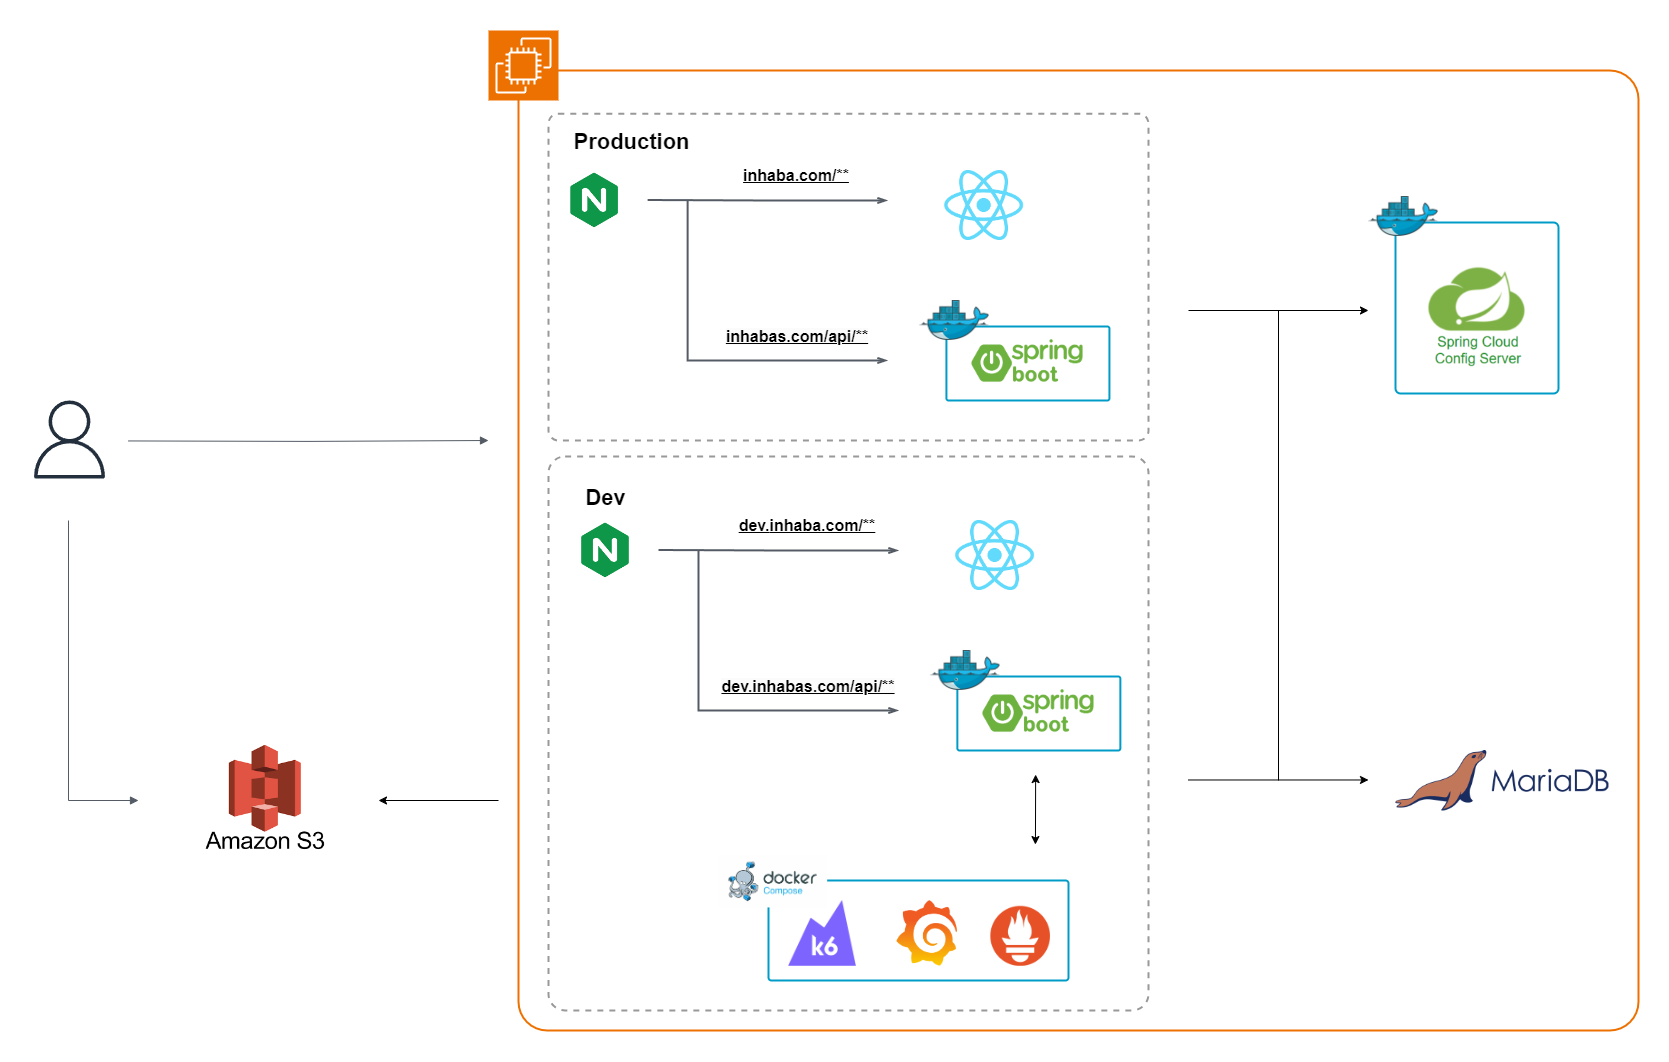
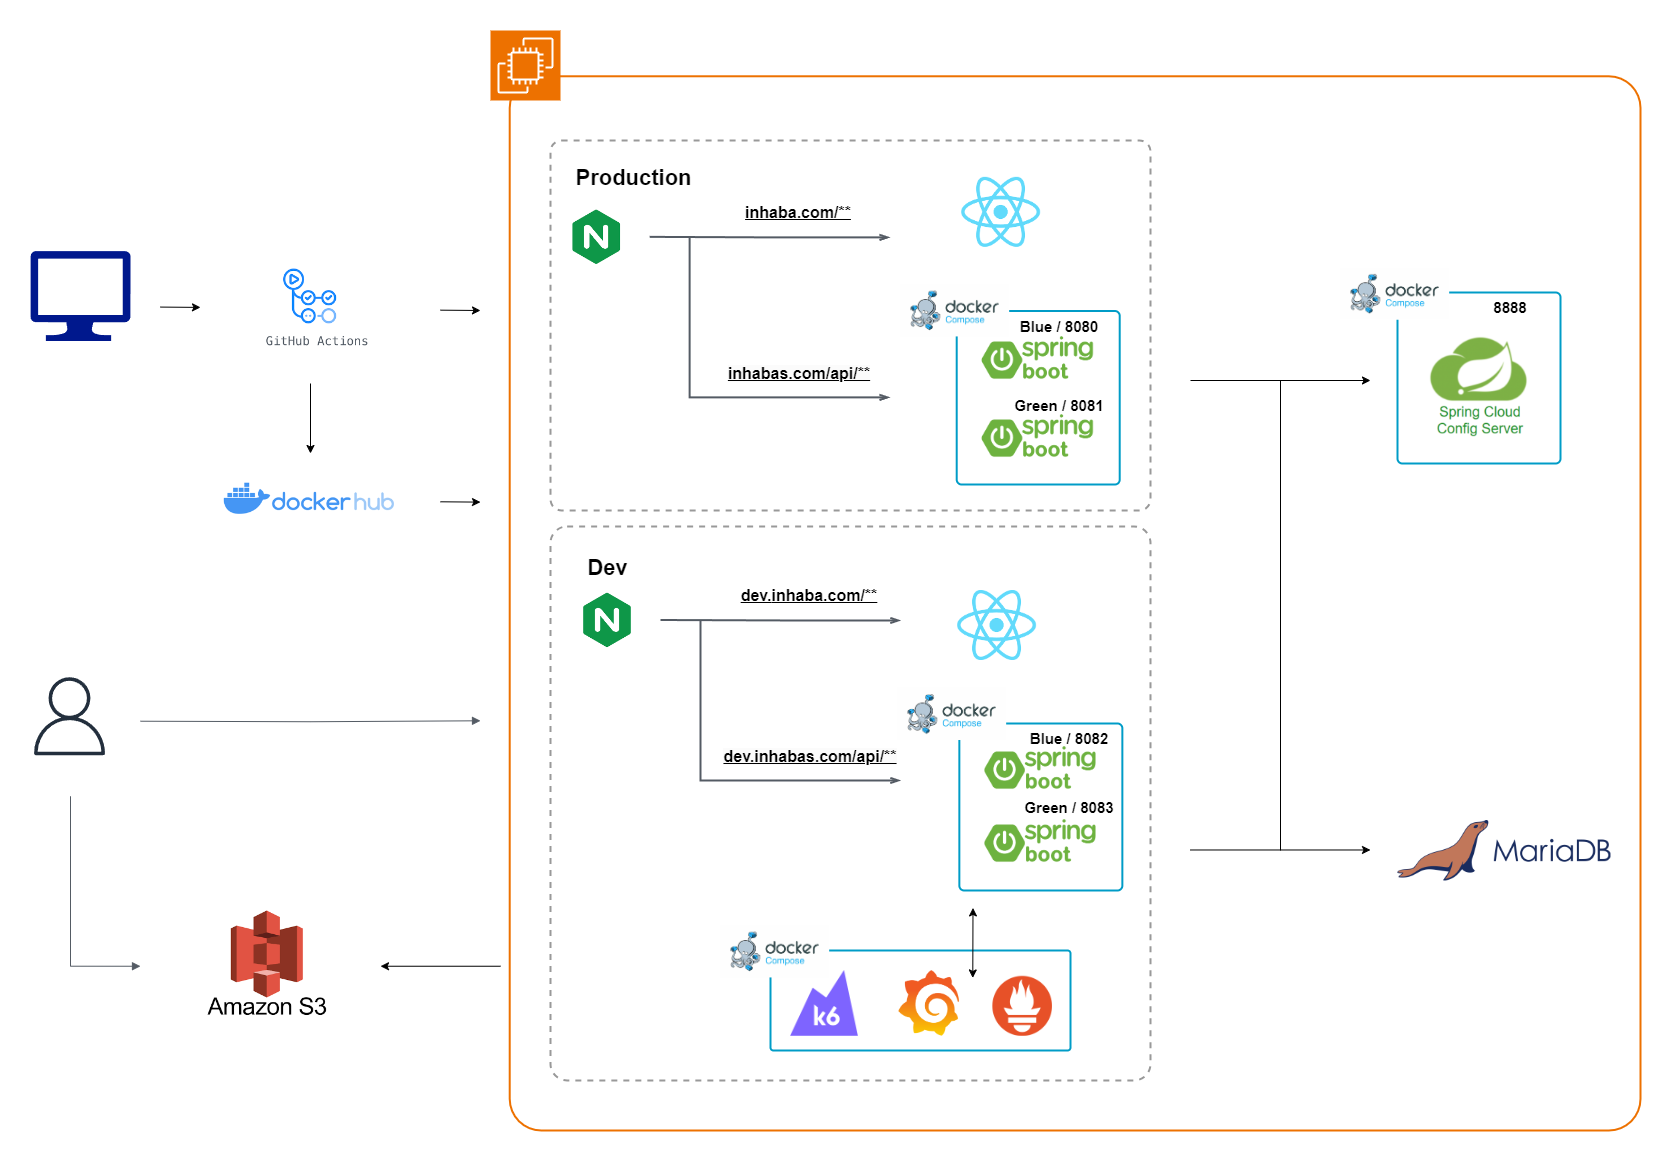
[docs/#167] README 추가 작성

diff --git a/README.md b/README.md
@@ -15,29 +15,118 @@ IBAS는 인하대학교의 빅데이터 학술동아리 입니다. 주로 데이
 
 ## IBAS Project
 
-IBAS 개발팀은 동아리의 활동과 비전을 온라인에 효과적으로 전달하기 위해 웹 페이지를 운영하고 있습니다. IBAS 웹페이지는 회원들과의 소통을 강화하고 외부에 동아리의 활동을 알리는 플랫폼으로 활용되고 있습니다.
+IBAS 공식 웹페이지는 인하대학교 빅데이터 학술 동아리의 활동과 비전을 효과적으로 전달하기 위해 개발되었습니다.
+
+회원 등급에 따라 컨텐츠 접근 권한을 관리하여 안전한 자료 보관과 공유를 지원합니다. 또한, 간편한 회원 관리와 회계 관리 시스템을 통해 동아리 운영의 효율성을 높입니다. 주요 기능으로는 회원 등급 관리, 회계 내역 관리, 활동 및 공지사항 관리, 자료 공유 및 커뮤니케이션 플랫폼 등이 있습니다.
+
+이 웹서비스는 해당 동아리의 특성에 맞게 커스터마이징 된 기능을 제공하는것에 중점을 두고 있습니다.
 
 [IBAS 웹페이지 바로가기](https://www.inhabas.com/)
 
 [2023.09~2024.07 웹서비스 개발 문서](https://www.notion.so/IBAS-049505480e5f4bebbb01bfc9b1e9c3c0)
 
-### Architecture
-
+## Architecture
 ![Architecture](docs/images/architecture.png)
 
-### Style Convention
+## Stacks
+### Language & Framework
+![Java](https://img.shields.io/badge/Java-ED8B00?style=for-the-badge&logo=openjdk&logoColor=white) ![Spring Boot](https://img.shields.io/badge/SpringBoot-6DB33F?style=for-the-badge&logo=Spring&logoColor=white) ![Spring Dada JPA](https://img.shields.io/badge/Spring_data_jpa-6DB33F?style=for-the-badge&logo=Spring&logoColor=white) ![Spring Security](https://img.shields.io/badge/Spring%20Security-6DB33F?style=for-the-badge&logo=springsecurity&logoColor=white) ![Spring Boot](https://img.shields.io/badge/Spring%20Cloud%20config-6DB33F?style=for-the-badge&logo=spring&logoColor=white) ![Querydsl](https://img.shields.io/badge/Querydsl-003366?style=for-the-badge&logo=Querydsl&logoColor=white)
+
+### Database
+![MariaDB](https://img.shields.io/badge/MariaDB-003545?style=for-the-badge&logo=mariadb&logoColor=white) ![Redis](https://img.shields.io/badge/Redis-DC382D?style=for-the-badge&logo=redis&logoColor=white)
+
+### Test
+![Jnit5](https://img.shields.io/badge/JUnit5-25A162?style=for-the-badge&logo=JUnit5&logoColor=white) ![Mockito](https://img.shields.io/badge/Mockito-83B81A?style=for-the-badge&logo=Mockito&logoColor=white")
+
+### Infra
+![Gradle](https://img.shields.io/badge/Gradle-02303A?style=for-the-badge&logo=Gradle&logoColor=white) ![Docker](https://img.shields.io/badge/Docker-2496ED?style=for-the-badge&logo=Docker&logoColor=white) ![Prometheus](https://img.shields.io/badge/Prometheus-20232A?style=for-the-badge&logo=prometheus) ![Grafana](https://img.shields.io/badge/Grafana-5f5f5f?style=for-the-badge&logo=grafana) ![K6](https://img.shields.io/badge/k6-5432a8?style=for-the-badge&logo=K6&logoColor=white) ![Github actions](https://img.shields.io/badge/Github%20actions-5f5f5f?style=for-the-badge&logo=github&logoColor=white)
+
+### Documentation
+![Swagger](https://img.shields.io/badge/Swagger-85EA2D?style=for-the-badge&logo=Swagger&logoColor=white)
+
+
+## Style Convention
 
 IBAS Project는 코드 품질과 가독성을 유지하기 위해 일관된 스타일 규약을 따르고 있습니다. 기여하기 전 아래 문서를 참고해주세요.
 
 [STYLE-CONVENTION.md](STYLE-CONVENTION.md)
 
-### IBAS에 기여하기
+
+## Main Features
+
+### Swagger를 활용한 API 명세
+![Swagger](docs/images/show/swagger.gif)
+- 약 100개의 REST API
+- 자세한 Request, Response 예시 제공
+- Token 인증 방식을 활용한 권한 테스트 지원
+
+### 회원관리
+![Manage-users](docs/images/show/manage-user.gif)
+- 권한별 제한된 회원 등급 관리
+- 신입 부원 가입 관리
+- 권한별 개인정보 마스킹 처리
+
+![Board](docs/images/show/board.gif)
+- 권한별, 게시판별 CRUD 
+- 검색 기능
+- 게시글 Markdown 형식, 미리보기 기능 제공
+- 파일 업로드
+  - 제한된 파일 확장자 
+  - 데이터 검증으로 보안 문제 방지 
+  - 난수 값을 활용한 파일명 저장
+  - 미리보기, 확대 기능
+  - 복수 파일 추가, 삭제 기능 
+  - 다운로드 기능
+
+![Comment](docs/images/show/comment.gif)
+- 권한별 CRUD
+- 대댓글 기능
+  - 계층적 UI 제공
+  - 삭제 조건 세분화
+    - 해당 댓글이 대댓글을 포함한 경우 `삭제된 댓글입니다.` 표시로 대체
+    - 해당 댓글이 말단 댓글인 경우만 삭제
+
+![Account](docs/images/show/account.gif)
+- 총무만 CRUD 허용
+  - 단, 이전 기수 총무가 작성한 것은 수정 불가
+  - 총무가 직접 사용하지 않아 송금을 하는 경우, 예산지원 신청 심사를 거쳐 자동 기록
+- 트랜잭션 관리로 동시성 제어
+- 잔액 자동 계산 기능
+
+### 그 외 여러가지 기능
+- OAuth2 로그인
+- 동아리 정책 관리
+- 내 정보 관리
+- 내가 쓴 글, 기록 관리
+- 동아리 지원서 작성
+- 동아리 연혁
+- 공모전, 장학회 등 여러 형태의 게시판
+
+
+## Problem documentation
+
+### [자세한 내용](https://www.notion.so/IBAS-049505480e5f4bebbb01bfc9b1e9c3c0?pvs=4#cdf1c1b74fe04f91974b8d9464ade39a)
+
+- 회계 관련 동작 로직
+- 권한 체계 정책
+- 회원가입 과정 동작 로직
+- OAuth 회원가입 동작 로직
+- 등급 하락 시 접근 권한 정책
+- 첨부 가능한 파일 확장자
+- ec2 root 계정 분실로 인한 서버 이전 방법
+- Blue/Green 배포 (Nginx + github actions) without Docker
+- Blue/Green 배포 (Nginx + github actions + Docker compose)
+- forked repository PR에서 pull_request시 secrets값을 가져오지 못하는 오류
+- JPA 성능 최적화
+
+
+## How to contribute to IBAS
 
 IBAS에 소속된 회원이라면 누구든지 이 프로젝트에 기여할 수 있습니다.
 
 아래 기여 가이드라인을 확인하고 기여해주세요.
 
-1. PR올리는 경우
+1. PR 올리는 경우
 
    [CONTRIBUTING.md](CONTRIBUTING.md)
 
